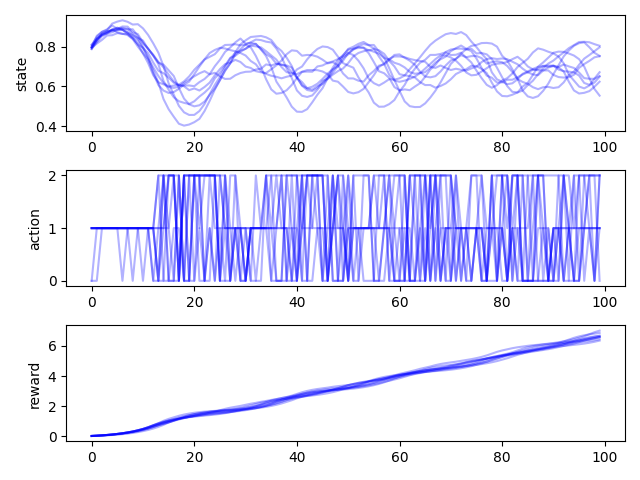
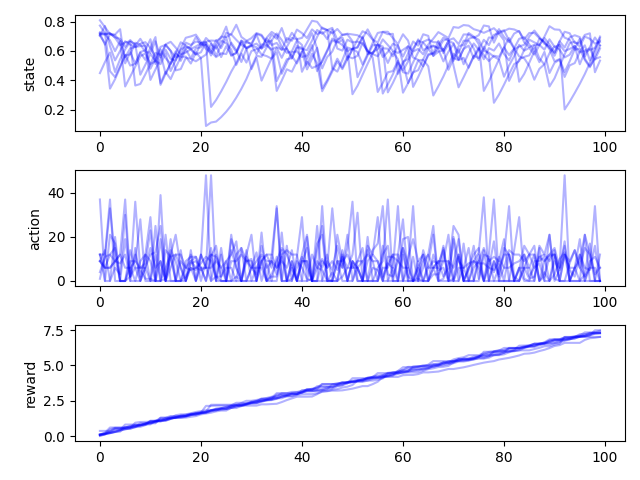
running the discrete algos with 100 actions

diff --git a/fishing/sb3/fishing_with_A2C.py b/fishing/sb3/fishing_with_A2C.py
@@ -5,7 +5,7 @@ from stable_baselines3 import A2C
 from stable_baselines3.common.evaluation import evaluate_policy
 from leaderboard import leaderboard
 
-env = gym.make('fishing-v0')
+env = gym.make('fishing-v0', n_actions = 100)
 model = A2C('MlpPolicy', env, verbose=0)
 model.learn(total_timesteps=500000)
 

diff --git a/fishing/sb3/fishing_with_PPO.py b/fishing/sb3/fishing_with_PPO.py
@@ -5,7 +5,7 @@ from stable_baselines3 import PPO
 from stable_baselines3.common.evaluation import evaluate_policy
 from leaderboard import leaderboard
 
-env = gym.make('fishing-v0')
+env = gym.make('fishing-v0', n_actions = 100)
 model = PPO('MlpPolicy', env, verbose=0)
 model.learn(total_timesteps=300000)
 

diff --git a/fishing/sb3/fishing_with_DQN.py b/fishing/sb3/fishing_with_DQN.py
@@ -6,7 +6,7 @@ from stable_baselines3.common.evaluation import evaluate_policy
 from leaderboard import leaderboard
 
 # Create environment
-env = gym.make('fishing-v0')
+env = gym.make('fishing-v0', n_actions=100)
 # Instantiate the agent
 model = DQN('MlpPolicy', env, verbose=0)
 # Train the agent
